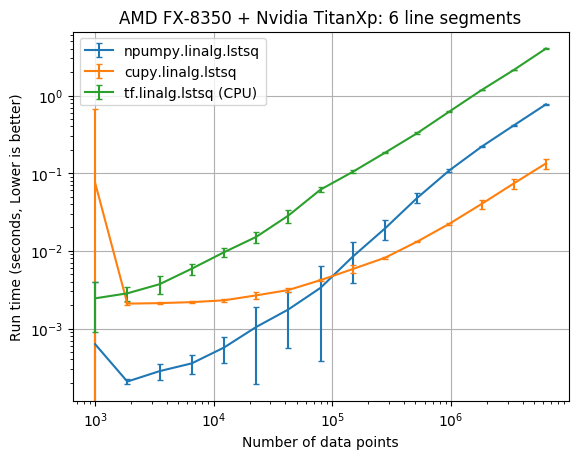
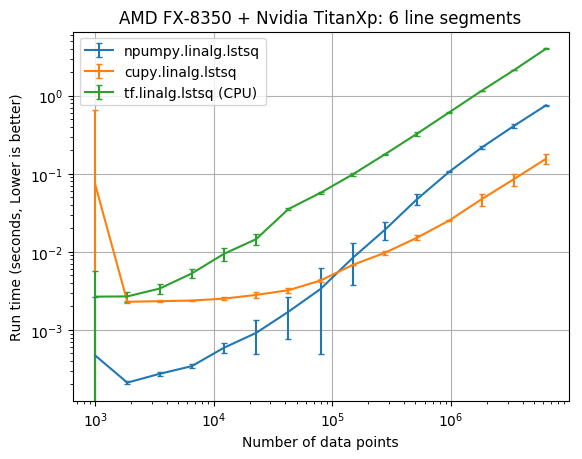
update benchmark for latest cupy syntax

diff --git a/_posts/2019-04-28-Compare-lstsq-performance-in-Python.md b/_posts/2019-04-28-Compare-lstsq-performance-in-Python.md
@@ -5,6 +5,8 @@ description: Comparing the performance of the least-squares solvers in NumPy, Cu
 keywords: [ Python least squares, tensorflow, benchmarks, svd, cholesky decomposition ]
 ---
 
+**Edit 2019-05-09: The benchmark has been updated to include the latest CuPy syntax for cupy.linalg.lstsq.**
+
 [CuPy](https://cupy.chainer.org) is a GPU accelerated version of NumPy that is very easy to use. I just submited a [PR](https://github.com/cupy/cupy/pull/2165) which adds ```cupy.linalg.lstsq```, and naturally I wanted to compare the least squares performance to ```numpy.linalg.lstsq```. I also compared ```tensorflow.linalg.lstsq``` as a reasonable alternative. Hopefully this will provide some insight into when it will pay off to solve least squares problems with CuPy instead of NumPy. 
 
 **I only have one computer that I was able to run this on so far. I'll update the post if I can run this benchmark on different hardware.**
@@ -81,8 +83,8 @@ The results below compare the run time of the fits against the number of data po
 
 | CPU/GPU        |  lstsq parameters  | Data points      | CuPy x faster NumPy|
 | ------------- |:-------------:|:-------------:|:-----:|
-| AMD FX-8350/NVIDIA TITAN Xp      | 6 | 6,309,573 | 5.76 |
-| AMD FX-8350/NVIDIA TITAN Xp      | 20 | 6,309,573 | 6.80 |
+| AMD FX-8350/NVIDIA TITAN Xp      | 6 | 6,309,573 | 4.84 |
+| AMD FX-8350/NVIDIA TITAN Xp      | 20 | 6,309,573 | 6.54 |
 
 # Disucssion
 
